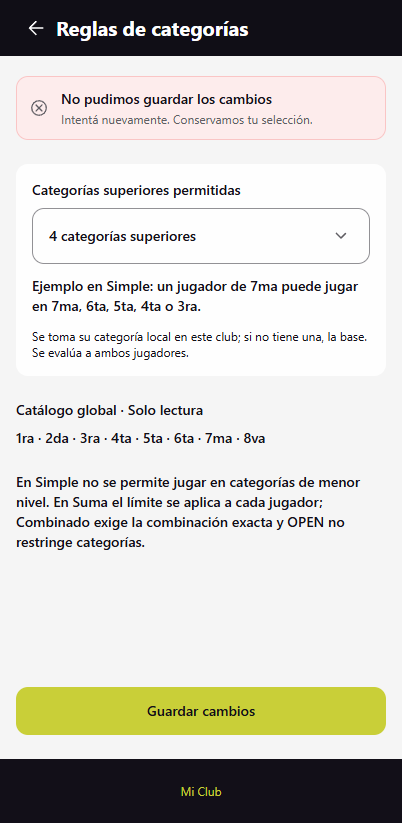
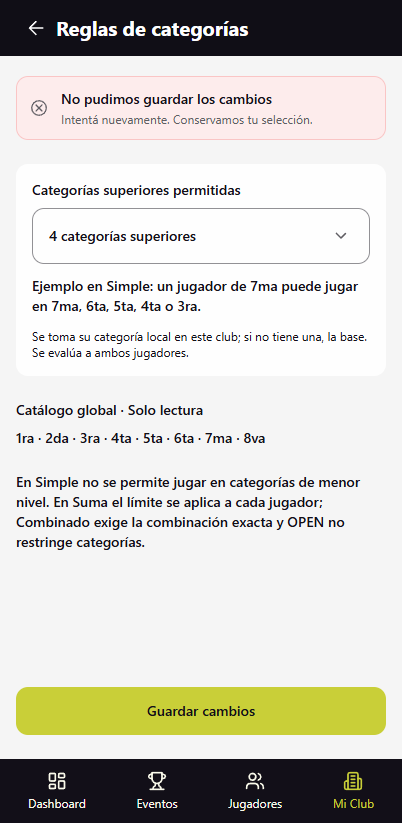
KAN-108: Restore the club bottom navbar from Figma

diff --git a/src/features/club/category-policy/CategoryPolicyPage.tsx b/src/features/club/category-policy/CategoryPolicyPage.tsx
@@ -6,6 +6,7 @@ import { ArrowBackIcon } from '@/components/icons/NavigationIcons'
 import { useAuth } from '@/context/AuthContext'
 import { EFFECTIVE_HELP, TYPE_HELP, example, optionLabel } from './category-policy'
 import { useCategoryPolicy } from './use-category-policy'
+import { ClubBottomNav } from './ClubBottomNav'
 import chevron from '@/assets/category-policy/chevron.svg'
 import checkIcon from '@/assets/category-policy/check.svg'
 import errorIcon from '@/assets/category-policy/error.svg'
@@ -79,10 +80,7 @@ export function CategoryPolicyPage() {
         {policy.loadError ? <Button className="mx-auto flex h-12 w-full max-w-xl rounded-lg" onClick={() => void policy.reload()}>Reintentar</Button> :
         <Button className={`mx-auto flex h-12 w-full max-w-xl rounded-lg text-sm transition-none hover:bg-primary-500 active:bg-primary-500 disabled:opacity-100 ${!policy.dirty && !policy.saving ? 'disabled:bg-[#eef0c1] disabled:text-[#605e64]' : ''}`} loading={policy.saving} loadingLabel="Guardando…" disabled={!policy.dirty} onClick={() => void policy.save()}>Guardar cambios</Button>}
       </footer>}
-      {/* KAN-134 owns the global club menu; this screen supplies its return contract. */}
-      <nav aria-label="Regreso al club" className="flex h-16 shrink-0 items-center justify-center bg-dark-900 text-primary-500">
-        <button type="button" onClick={back} disabled={policy.saving} className="h-full min-w-24 px-4 text-xs">Mi Club</button>
-      </nav>
+      <ClubBottomNav onDashboard={back} onClub={back} busy={policy.saving} />
       <dialog ref={dialog} aria-labelledby="discard-title" onCancel={event => { event.preventDefault(); if (blocker.state === 'blocked') blocker.reset() }} className="w-[calc(100%-2rem)] max-w-sm rounded-xl bg-surface p-6 text-dark-900 backdrop:bg-black/40">
         <h2 id="discard-title" className="text-lg font-semibold">¿Descartar los cambios?</h2>
         <p className="mt-2 text-sm">Tenés cambios sin guardar.</p>

diff --git a/src/features/club/category-policy/ClubBottomNav.tsx b/src/features/club/category-policy/ClubBottomNav.tsx
@@ -1,0 +1,34 @@
+import dashboardIcon from '@/assets/category-policy/nav-dashboard.svg'
+import eventsIcon from '@/assets/category-policy/nav-events.svg'
+import playersIcon from '@/assets/category-policy/nav-players.svg'
+import clubIcon from '@/assets/category-policy/nav-club.svg'
+
+interface ClubBottomNavProps {
+  onDashboard: () => void
+  onClub: () => void
+  onEvents?: () => void
+  onPlayers?: () => void
+  busy?: boolean
+}
+
+/** KAN-105's club navigation; KAN-134 connects the remaining global destinations. */
+export function ClubBottomNav({ onDashboard, onClub, onEvents, onPlayers, busy }: ClubBottomNavProps) {
+  const items = [
+    { label: 'Dashboard', icon: dashboardIcon, onPress: onDashboard },
+    { label: 'Eventos', icon: eventsIcon, onPress: onEvents },
+    { label: 'Jugadores', icon: playersIcon, onPress: onPlayers },
+    { label: 'Mi Club', icon: clubIcon, onPress: onClub },
+  ]
+  return (
+    <nav aria-label="Navegación del club" className="h-16 shrink-0 bg-dark-900">
+      <div className="mx-auto flex h-full w-full max-w-xl items-center justify-between px-4 py-1">
+        {items.map(item => <button key={item.label} type="button" disabled={busy || !item.onPress}
+          aria-current={item.label === 'Mi Club' ? 'page' : undefined} onClick={item.onPress}
+          className={`flex h-14 shrink-0 flex-col items-center justify-center gap-1 rounded-xl px-3 py-2 text-xs font-normal leading-4 focus-visible:outline-none focus-visible:ring-2 focus-visible:ring-primary-500 ${item.label === 'Mi Club' ? 'text-primary-500' : 'text-[#FAFAEB]'}`}>
+          <img src={item.icon} alt="" width={19.9832} height={19.9832} className="shrink-0" />
+          <span>{item.label}</span>
+        </button>)}
+      </div>
+    </nav>
+  )
+}
